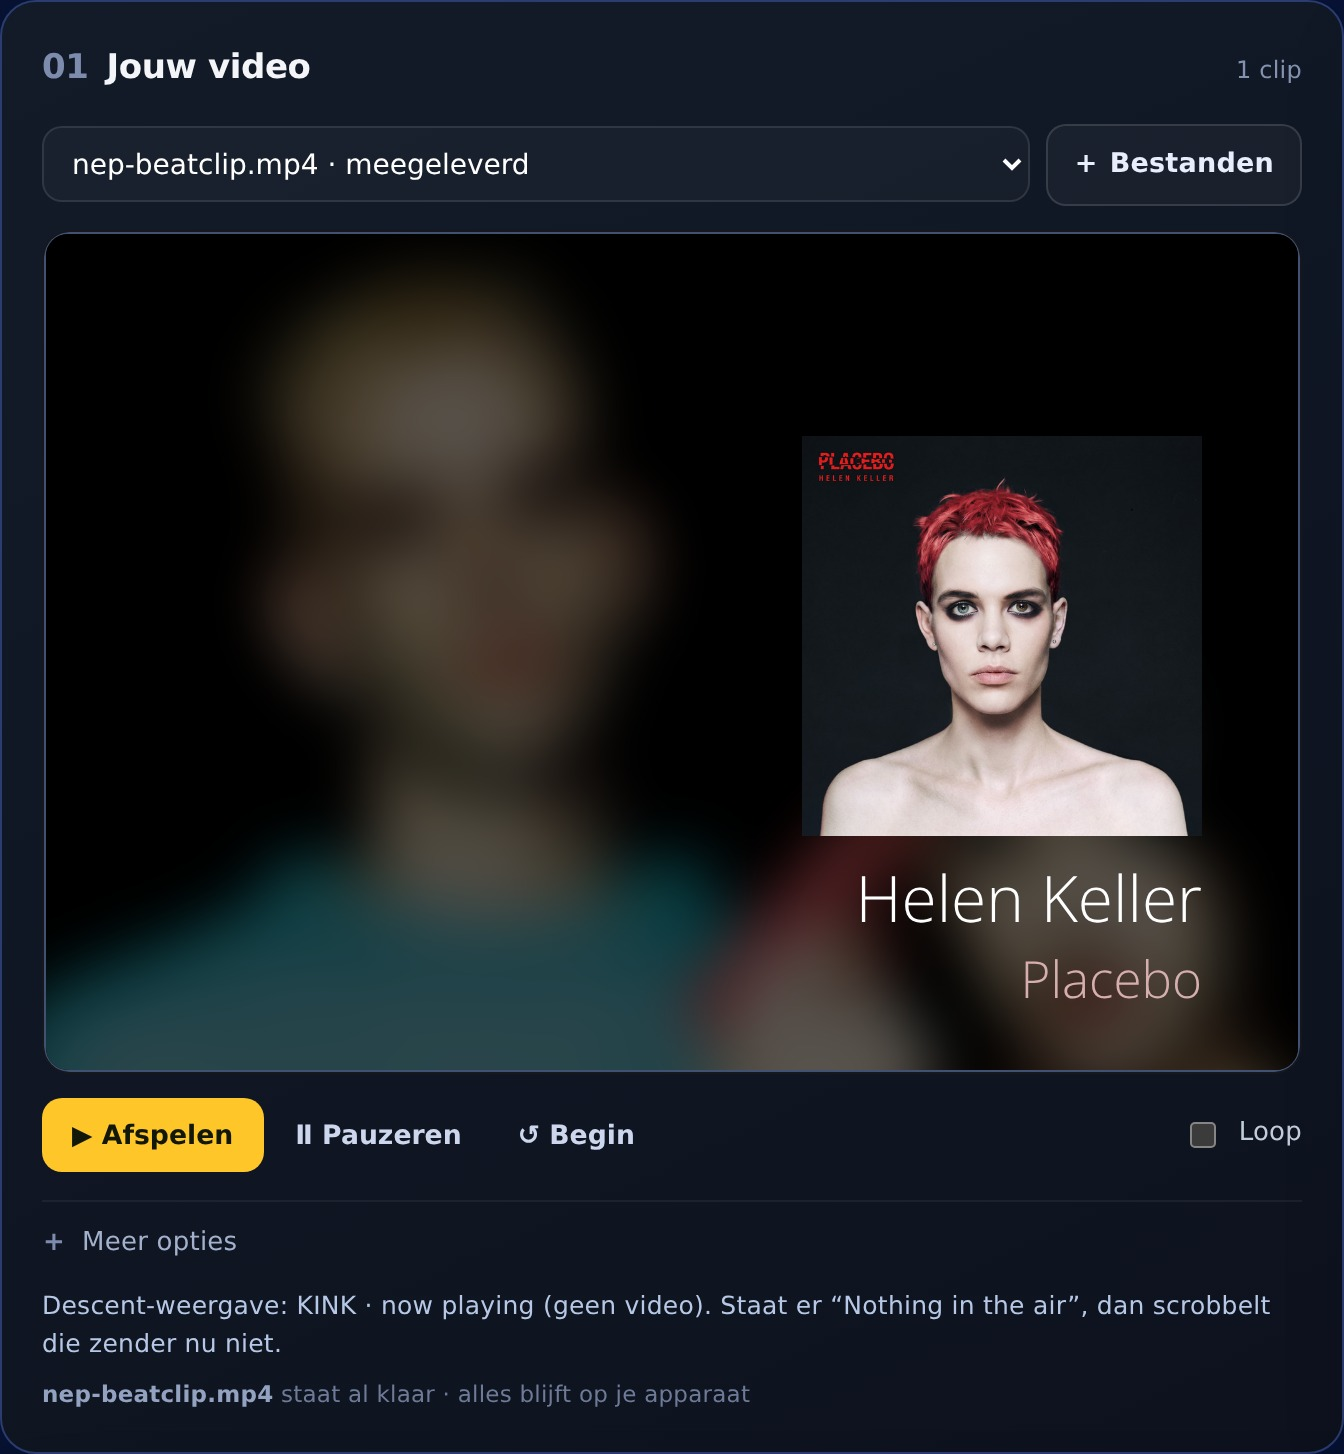
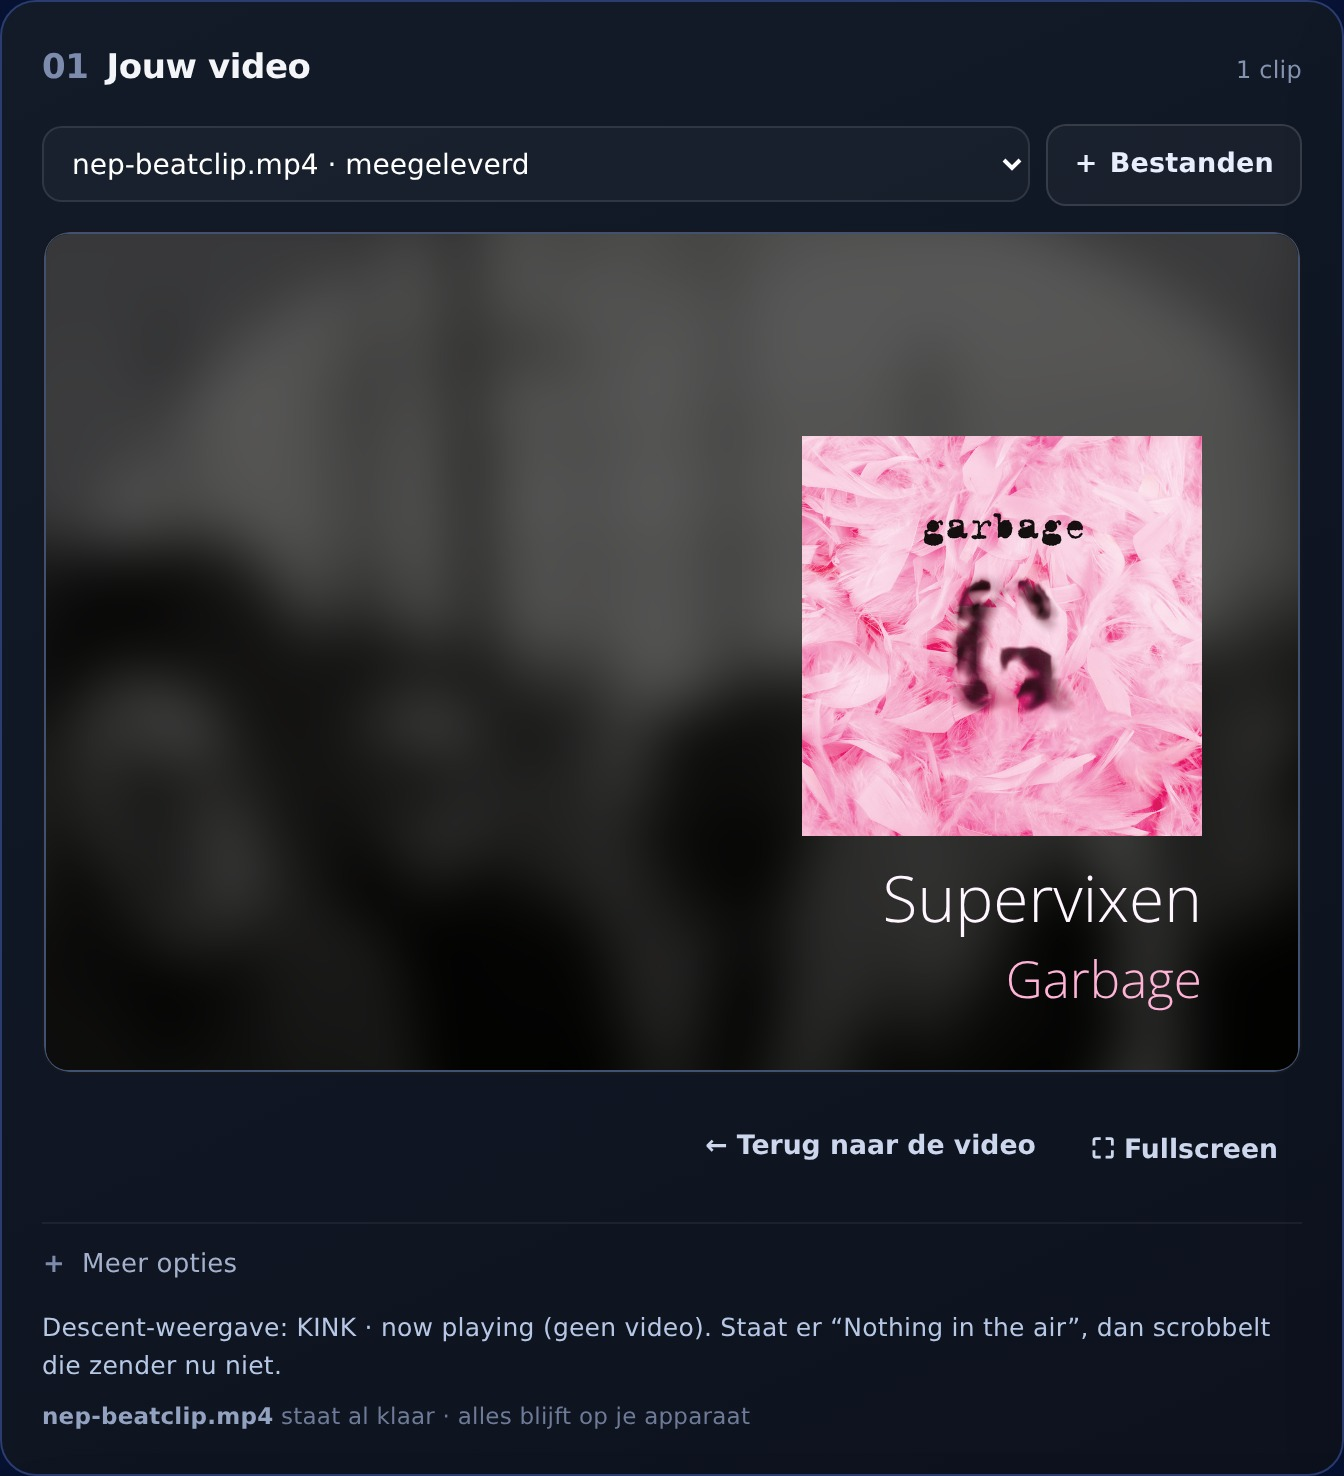
README vernieuwd met beelden van de nieuwe interface
- hero, Jouw video en Audiobron als galerij met uitleg per beeld
- secties voor Meer opties en de Descent-weergave (paneel + fullscreen)
- oude screenshots (keuzelijst, video-via-url, video-meegeleverd) verwijderd
- clip-label en gebruikshandleiding aangepast aan de nieuwe knoppen

diff --git a/README.md b/README.md
@@ -27,8 +27,24 @@ offset in milliseconden om het beeld precies op de tel te leggen.
 
 | | |
 |---|---|
-| ![Video via een URL](docs/screenshots/video-via-url.jpg) | ![Meerdere bronnen in één lijst](docs/screenshots/keuzelijst.jpg) |
-| **Video via een URL** — plak een directe link naar een MP4/WebM; hij komt naast je lokale bestanden in de lijst. | **Alles in één keuzelijst** — de meegeleverde clip (🎬), eigen bestanden en URL's (🔗) door elkaar. |
+| ![Jouw video](docs/screenshots/jouw-video.jpg) | ![Audiobron](docs/screenshots/audiobron.jpg) |
+| **Jouw video** — kies een clip uit de lijst of voeg bestanden toe; daaronder de afspeelknoppen en de loop-schakelaar. De video-URL en de Descent-weergave zitten achter *Meer opties*. | **Audiobron** — lokaal bestand, directe URL, ingebouwde radio of tabbladaudio. De meters en de BPM-schatting volgen de gekozen bron. |
+
+### Meer opties: video-URL en Descent
+
+Eén regel voor een directe link naar een videobestand, en een keuzelijst met elf
+Descent-pagina's. Dichtgeklapt tot je het nodig hebt.
+
+![Meer opties in het videopaneel](docs/screenshots/meer-opties.jpg)
+
+### Descent-weergave, ook schermvullend
+
+Kies een zender en de now-playing-pagina verschijnt in het videogebied. Met **⛶ Fullscreen**
+gaat hij over het hele scherm; **Esc** of de sluitknop brengt je terug, **← Terug naar de
+video** zet je eigen video weer neer.
+
+| ![Descent-weergave](docs/screenshots/descent.jpg) | ![Descent fullscreen](docs/screenshots/descent-fullscreen.jpg) |
+|---|---|
 
 ### De hele app
 
@@ -51,7 +67,7 @@ offset in milliseconden om het beeld precies op de tel te leggen.
 ## Gebruik
 
 1. Open de [live-versie](https://theberas04.github.io/beatsync-studio/) of `index.html` in Chrome of Edge.
-2. Kies een of meer video's, of plak een directe video-URL en klik op **URL laden**. Alles komt in de keuzelijst; wisselen kan altijd.
+2. Kies een video uit de lijst of voeg bestanden toe met **+ Bestanden**. Voor een directe link: open **Meer opties**, plak de URL en klik op **URL laden**.
 3. Kies onder **Audiobron** de bron die je wilt gebruiken.
 4. Stel zo nodig BPM, offset en snelheid in.
 
@@ -61,10 +77,8 @@ tabblad kiezen en **audio delen** aanvinken. Werkt het beste in Chrome of Edge.
 ### Meegeleverde clip
 
 `media/nep-beatclip.mp4` hoort bij de site en staat bij het openen al in de keuzelijst
-(label 🎬). Op de container hoort hij in `/var/www/beatsync/media/` te staan;
-`update-from-github.sh` zet hem daar samen met `index.html` neer.
-
-![Meegeleverde clip in de keuzelijst](docs/screenshots/video-meegeleverd.jpg)
+(met het label *meegeleverd*). Op de container hoort hij in `/var/www/beatsync/media/` te
+staan; `update-from-github.sh` zet hem daar samen met `index.html` neer.
 
 ### Video via een URL
 
